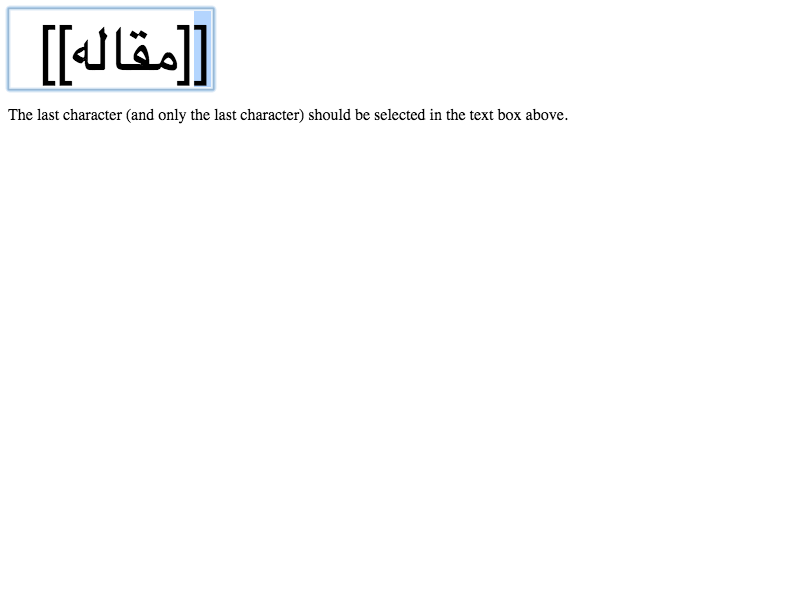
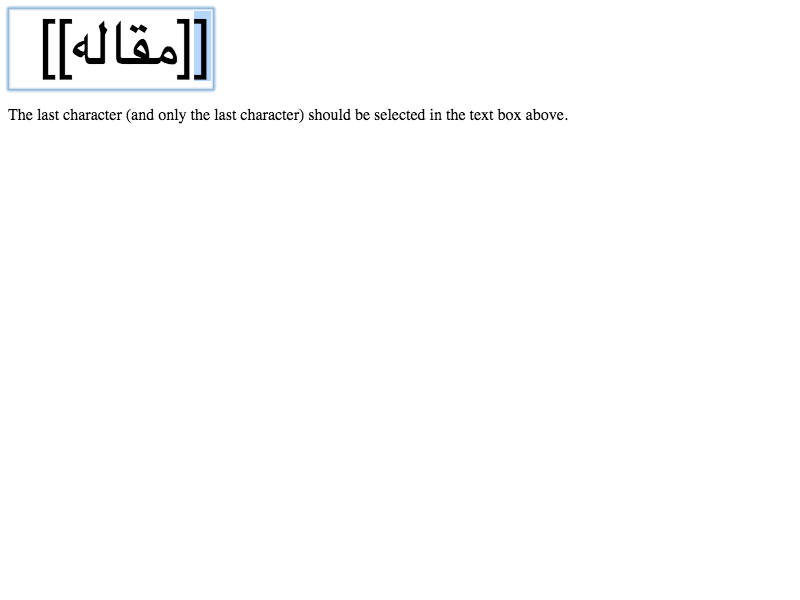
INPUT text field: Fix a chopped editing text issue.
This CL fixes crbug.com/576589.  The editing text looked to be chopped because:
 - the selected font height is taller than the specified |line-height|.
 - the specified |height| is taller than the |line-height|.
 - So, the inner-editor element is shorter though the INPUT box has enough space.

This CL fixes the problem by the following changes:

* Resetting CSS line-height if CSS height is specified.
  In such case line-height makes no sense, and we don't need to clip the
  inner-editor element with it.

  However, this change causes a regression for crbug.com/519331.  So we need
  the change below.  It's an alternative fix for crbug.com/519331 rather than
  crbug.com/576589.

* Always center the inner-editor element vertically regardless of its height,
  don't override the height, and clip editing text with controlClipRect().

  Before this change, if the inner-editor height was taller than the INPUT box
  height, we put the inner-editor element on the top edge of the INPUT box, and
  overrode its height to clip the text.
  Instead of it, we always center the inner-editor element vertically like
  Firefox does. Also, this change also removes the quirky behavior such that
  editing text poked INPUT padding and border.

BUG=576589, 461117, 361728
TEST=automated

Review URL: https://codereview.chromium.org/1584683002

Cr-Original-Commit-Position: refs/heads/master@{#369975}
Cr-Mirrored-From: https://chromium.googlesource.com/chromium/src
[…]

diff --git a/WebKit/LayoutTests/fast/forms/text/text-font-height-mismatch.html b/WebKit/LayoutTests/fast/forms/text/text-font-height-mismatch.html
@@ -19,7 +19,12 @@ if (window.testRunner)
 document.fonts.ready.then(function() {
     document.getElementById('webfont').innerHTML = '<input style="border:' +
         'solid 1px black; font-size:16px; font-family:NotoSansCJK;"' + 
+        'value="&#x3075; ABCgjy">' +
+        '<input style="border: solid 1px black; font-size:16px; ' +
+        'line-height:17px; height:24px; font-family:NotoSansCJK;"' + 
         'value="&#x3075; ABCgjy">';
+    // The first INPUT is for crbug.com/519331.
+    // The second INPUT is for crbug.com/576589.
     if (window.testRunner)
         testRunner.notifyDone();
 });

diff --git a/WebKit/LayoutTests/fast/forms/input-textarea-padding-match-expected.html b/WebKit/LayoutTests/fast/forms/input-textarea-padding-match-expected.html
@@ -11,7 +11,6 @@ textarea {
   margin: 0;
   resize: none;
   width: 20px;
-  height: 10px;
   overflow: hidden;
 }
 </style>

diff --git a/WebKit/LayoutTests/fast/forms/input-textarea-padding-match.html b/WebKit/LayoutTests/fast/forms/input-textarea-padding-match.html
@@ -11,7 +11,6 @@ input {
   margin: 0;
   resize: none;
   width: 20px;
-  height: 10px;
   overflow: hidden;
 }
 </style>

diff --git a/WebKit/Source/core/layout/LayoutTextControlSingleLine.cpp b/WebKit/Source/core/layout/LayoutTextControlSingleLine.cpp
@@ -46,7 +46,6 @@ using namespace HTMLNames;
 LayoutTextControlSingleLine::LayoutTextControlSingleLine(HTMLInputElement* element)
     : LayoutTextControl(element)
     , m_shouldDrawCapsLockIndicator(false)
-    , m_desiredInnerEditorLogicalHeight(-1)
 {
 }
 
@@ -110,32 +109,14 @@ void LayoutTextControlSingleLine::layout()
     //   the intrinsic height of the inner elements.
     // - Shrink the inner elment heights if the input height is samller than the
     //   intrinsic heights of the inner elements.
+    // The hack was removed for the inner-editor element.  We should remove it
+    // for containerElement() too.
 
-    // We don't honor paddings and borders for textfields without decorations
-    // and type=search if the text height is taller than the contentHeight()
-    // because of compability.
+    // We don't honor paddings and borders for type=search if the text height is
+    // taller than the contentHeight() because of compatibility.
 
     LayoutBox* innerEditorLayoutObject = innerEditorElement()->layoutBox();
     bool innerEditorLayoutObjectHadLayout = innerEditorLayoutObject && innerEditorLayoutObject->needsLayout();
-    LayoutBox* viewPortLayoutObject = editingViewPortElement() ? editingViewPortElement()->layoutBox() : 0;
-
-    // To ensure consistency between layouts, we need to reset any conditionally overriden height.
-    if (innerEditorLayoutObject) {
-        innerEditorLayoutObject->clearOverrideLogicalContentHeight();
-        // TODO(jchaffraix): We could probably skip some of these due to
-        // forcing children relayout below but keeping them for safety for now.
-        layoutScope.setNeedsLayout(innerEditorLayoutObject, LayoutInvalidationReason::TextControlChanged);
-        HTMLElement* placeholderElement = inputElement()->placeholderElement();
-        if (LayoutBox* placeholderBox = placeholderElement ? placeholderElement->layoutBox() : 0)
-            layoutScope.setNeedsLayout(placeholderBox, LayoutInvalidationReason::TextControlChanged);
-    }
-    // TODO(jchaffraix): This logic is not correct and will yield to bugs such
-    // as crbug.com/529252. The fix is similar to what is done with
-    // innerEditorLayoutObject above.
-    if (viewPortLayoutObject && !viewPortLayoutObject->styleRef().logicalHeight().isAuto()) {
-        viewPortLayoutObject->mutableStyleRef().setLogicalHeight(Length(Auto));
-        layoutScope.setNeedsLayout(viewPortLayoutObject, LayoutInvalidationReason::TextControlChanged);
-    }
 
     // This is the measuring phase. Thus we force children to be relayout so
     // that the checks below are executed consistently.
@@ -144,22 +125,7 @@ void LayoutTextControlSingleLine::layout()
     Element* container = containerElement();
     LayoutBox* containerLayoutObject = container ? container->layoutBox() : 0;
 
-    // Set the text block height
-    LayoutUnit desiredLogicalHeight = textBlockLogicalHeight();
     LayoutUnit logicalHeightLimit = computeLogicalHeightLimit();
-    if (innerEditorLayoutObject && innerEditorLayoutObject->logicalHeight() > logicalHeightLimit) {
-        if (desiredLogicalHeight != innerEditorLayoutObject->logicalHeight())
-            layoutScope.setNeedsLayout(this, LayoutInvalidationReason::TextControlChanged);
-
-        m_desiredInnerEditorLogicalHeight = desiredLogicalHeight;
-
-        innerEditorLayoutObject->setOverrideLogicalContentHeight(desiredLogicalHeight);
-        layoutScope.setNeedsLayout(innerEditorLayoutObject, LayoutInvalidationReason::TextControlChanged);
-        if (viewPortLayoutObject) {
-            viewPortLayoutObject->mutableStyleRef().setLogicalHeight(Length(desiredLogicalHeight, Fixed));
-            layoutScope.setNeedsLayout(viewPortLayoutObject, LayoutInvalidationReason::TextControlChanged);
-        }
-    }
     // The container might be taller because of decoration elements.
     if (containerLayoutObject) {
         containerLayoutObject->layoutIfNeeded();
@@ -243,16 +209,10 @@ bool LayoutTextControlSingleLine::nodeAtPoint(HitTestResult& result, const HitTe
 
 void LayoutTextControlSingleLine::styleDidChange(StyleDifference diff, const ComputedStyle* oldStyle)
 {
-    m_desiredInnerEditorLogicalHeight = -1;
     LayoutTextControl::styleDidChange(diff, oldStyle);
 
     // We may have set the width and the height in the old style in layout().
     // Reset them now to avoid getting a spurious layout hint.
-    Element* viewPort = editingViewPortElement();
-    if (LayoutObject* viewPortLayoutObject = viewPort ? viewPort->layoutObject() : 0) {
-        viewPortLayoutObject->mutableStyleRef().setHeight(Length());
-        viewPortLayoutObject->mutableStyleRef().setWidth(Length());
-    }
     Element* container = containerElement();
     if (LayoutObject* containerLayoutObject = container ? container->layoutObject() : 0) {
         containerLayoutObject->mutableStyleRef().setHeight(Length());
@@ -286,15 +246,13 @@ void LayoutTextControlSingleLine::capsLockStateMayHaveChanged()
 
 bool LayoutTextControlSingleLine::hasControlClip() const
 {
-    // Apply control clip for text fields with decorations.
-    return !!containerElement();
+    return true;
 }
 
 LayoutRect LayoutTextControlSingleLine::controlClipRect(const LayoutPoint& additionalOffset) const
 {
-    ASSERT(hasControlClip());
     LayoutRect clipRect = contentBoxRect();
-    if (containerElement()->layoutBox())
+    if (containerElement() && containerElement()->layoutBox())
         clipRect = unionRect(clipRect, containerElement()->layoutBox()->frameRect());
     clipRect.moveBy(additionalOffset);
     return clipRect;
@@ -364,10 +322,8 @@ PassRefPtr<ComputedStyle> LayoutTextControlSingleLine::createInnerEditorStyle(co
     textBlockStyle->setOverflowWrap(NormalOverflowWrap);
     textBlockStyle->setTextOverflow(textShouldBeTruncated() ? TextOverflowEllipsis : TextOverflowClip);
 
-    if (m_desiredInnerEditorLogicalHeight >= 0)
-        textBlockStyle->setLogicalHeight(Length(m_desiredInnerEditorLogicalHeight, Fixed));
     // Do not allow line-height to be smaller than our default.
-    if (textBlockStyle->fontSize() >= lineHeight(true, HorizontalLine, PositionOfInteriorLineBoxes))
+    if (textBlockStyle->fontSize() >= lineHeight(true, HorizontalLine, PositionOfInteriorLineBoxes) || !startStyle.logicalHeight().isIntrinsicOrAuto())
         textBlockStyle->setLineHeight(ComputedStyle::initialLineHeight());
 
     textBlockStyle->setDisplay(BLOCK);

diff --git a/WebKit/Source/core/layout/LayoutTextControlSingleLine.h b/WebKit/Source/core/layout/LayoutTextControlSingleLine.h
@@ -78,7 +78,6 @@ private:
     HTMLElement* innerSpinButtonElement() const;
 
     bool m_shouldDrawCapsLockIndicator;
-    LayoutUnit m_desiredInnerEditorLogicalHeight;
 };
 
 DEFINE_LAYOUT_OBJECT_TYPE_CASTS(LayoutTextControlSingleLine, isTextField());
